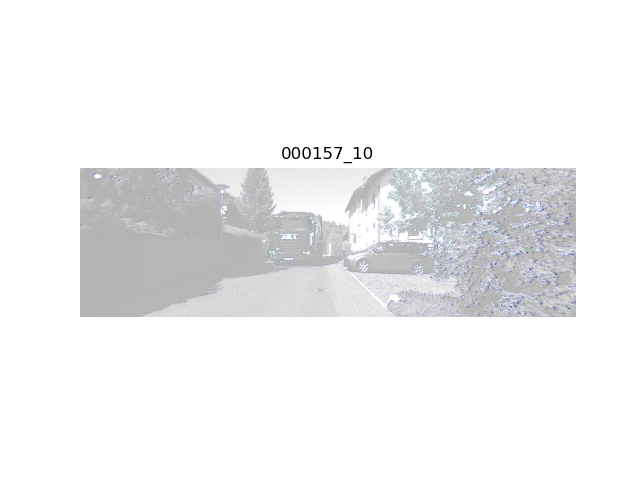
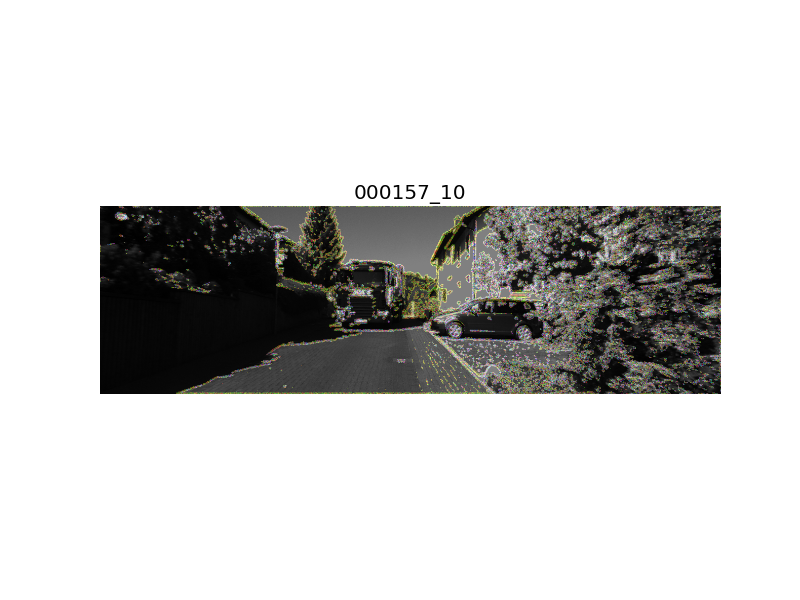
Add HSV plot for the optical flow

Changed region(s): [[0.125, 0.2812, 0.9062, 0.6875]]

diff --git a/code/metrics/optical_flow.py b/code/metrics/optical_flow.py
@@ -12,7 +12,7 @@ def plot_optical_flow(img_path, vector_field_path, downsample_factor, sequence_n
     img = cv.imread(img_path, cv.IMREAD_GRAYSCALE)
 
     # Get the optical flow image
-    optical_flow, valid_pixels_img = read_flow_field(cv.imread(vector_field_path, cv.IMREAD_UNCHANGED))
+    optical_flow, _ = read_flow_field(cv.imread(vector_field_path, cv.IMREAD_UNCHANGED))
 
     # Downsample optical flow image
     optical_flow_ds = block_reduce(optical_flow, block_size=(downsample_factor, downsample_factor, 1), func=np.mean)
@@ -35,28 +35,26 @@ def plot_optical_flow_hsv(img_path, vector_field_path, sequence_name, output_pat
     img = cv.imread(img_path, cv.IMREAD_GRAYSCALE)
 
     # Get the optical flow image
-    optical_flow, valid_pixels_img = read_flow_field(cv.imread(vector_field_path, cv.IMREAD_UNCHANGED))
+    optical_flow, _ = read_flow_field(cv.imread(vector_field_path, cv.IMREAD_UNCHANGED))
 
-    module = np.sqrt(np.square(optical_flow[:, :, 0]) + np.square(optical_flow[:, :, 1]))
-    module = (module / np.max(module))
-    angle = np.degrees(np.arctan(np.divide(optical_flow[:, :, 1], optical_flow[:, :, 0])))
-    angle = np.mod(angle + 360, 360)
+    magnitude, angle = cv.cartToPolar(np.square(optical_flow[:, :, 0]), np.square(optical_flow[:, :, 1]))
+    magnitude = cv.normalize(magnitude, 0, 255, norm_type=cv.NORM_MINMAX)
+    angle = angle * 180 / np.pi / 2
 
-    optical_flow_hsv = np.zeros((img.shape[0], img.shape[1], 3), 'float32')
-    optical_flow_hsv[:, :, 0] = angle
-    optical_flow_hsv[:, :, 1] = module
-    optical_flow_hsv[:, :, 2] = np.ones((img.shape[0], img.shape[1]))
-
+    optical_flow_hsv = np.zeros((img.shape[0], img.shape[1], 3), dtype=np.float32)
+    optical_flow_hsv[..., 0] = angle
+    optical_flow_hsv[..., 1] = 255
+    optical_flow_hsv[:, :, 2] = magnitude
+    # optical_flow_hsv[:, :, 1] = np.ones((img.shape[0], img.shape[1]), dtype=np.float32)
     optical_flow_rgb = cv.cvtColor(optical_flow_hsv, cv.COLOR_HSV2BGR)
 
     plt.imshow(img, cmap='gray')
-    plt.imshow(optical_flow_rgb, alpha=0.7)
+    plt.imshow(optical_flow_rgb, alpha=0.5)
     plt.axis('off')
     plt.title(sequence_name)
     plt.show(block=False)
     plt.savefig(output_path)
     plt.close()
-
 
 def evaluate(testList, gtList):
     msen = []

diff --git a/code/video_surveillance.py b/code/video_surveillance.py
@@ -136,8 +136,11 @@ def background_estimation(cf):
 
         if cf.plot_optical_flow:
             for image, test_image, seq_name in zip(imageList, testList, cf.image_sequences):
+                # Quiver plot
                 output_path = os.path.join(cf.output_folder, 'optical_flow_{}.png'.format(seq_name))
-                #optical_flow.plot_optical_flow(image, test_image, cf.optical_flow_downsample, seq_name, output_path)
+                optical_flow.plot_optical_flow(image, test_image, cf.optical_flow_downsample, seq_name, output_path)
+
+                #HSV plot
                 output_path = os.path.join(cf.output_folder, 'optical_flow_hsv_{}.png'.format(seq_name))
                 optical_flow.plot_optical_flow_hsv(image, test_image, seq_name, output_path)
 

diff --git a/code/config/kitti.py b/code/config/kitti.py
@@ -9,8 +9,8 @@ image_sequences              = ['000045_10', '000157_10']   # List of the sequen
 image_type                   = 'png'                        # Input image type
 
 # Evaluate Optical Flow
-evaluate                     = True
-plot_optical_flow            = False
+evaluate                     = False
+plot_optical_flow            = True
 optical_flow_downsample      = 16
 
 # Save results
